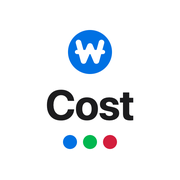
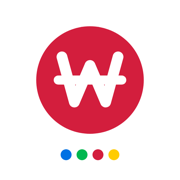
옐로(개나리) 테마 추가, 색 점 4개, 새 홈 화면 아이콘(흰 바탕 + 앱 색 큰 원 + 흰 그림)
Claude-Session: https://claude.ai/code/session_01AAGSzkox3hKXTnKDzvxEBJ

Changed region(s): [[0.1944, 0.1389, 0.8056, 0.8889]]

diff --git a/style.css b/style.css
@@ -1,4 +1,4 @@
-/* AIN Cost 스타일 v14 — 색·크기는 ../ain-todo/plan/design-guide.md(공통 디자인 가이드)를 따른다 */
+/* AIN Cost 스타일 v15 — 색·크기는 ../ain-todo/plan/design-guide.md(공통 디자인 가이드)를 따른다 */
 
 :root {
   --bg: #F2F2F7;
@@ -82,17 +82,21 @@
   color-scheme: dark;
 }
 
-/* 테마 색 (설정에서 고름, 계정마다 기억): 블루(기본) · 그린(팬톤 7481 C) · 레드
+/* 테마 색 (설정에서 고름, 계정마다 기억): 블루(기본) · 그린(팬톤 7481 C) · 레드 · 옐로
    - 버튼·막대·스위치·동전은 --primary, 흰 바탕 위 작은 글씨·아이콘은 --primary-text
-   - 그린 버튼의 흰 글씨는 대비 2.66으로 기준(4.5)보다 낮음: 사용자가 고른 색이라 예외 (디자인 가이드 참고) */
+   - 그린 버튼의 흰 글씨는 대비 2.66으로 기준(4.5)보다 낮음: 사용자가 고른 색이라 예외 (디자인 가이드 참고)
+   - 옐로 버튼의 흰 글씨도 대비 1.51로 낮음: 네 테마 버튼을 같게 하려고 사용자가 고른 예외. 라이트의 작은 글씨·아이콘만 진한 황토색 */
 :root[data-accent="green"] { --primary: #00B74F; --primary-text: #007B33; }
 :root[data-accent="red"] { --primary: #D31E3D; --primary-text: #D31E3D; }
+:root[data-accent="yellow"] { --primary: #FFCC00; --primary-text: #8C6500; }
 @media (prefers-color-scheme: dark) {
   :root:not([data-theme="light"])[data-accent="green"] { --primary-text: #00B74F; }
   :root:not([data-theme="light"])[data-accent="red"] { --primary-text: #FF4048; }
+  :root:not([data-theme="light"])[data-accent="yellow"] { --primary-text: #FFCC00; }
 }
 :root[data-theme="dark"][data-accent="green"] { --primary-text: #00B74F; }
 :root[data-theme="dark"][data-accent="red"] { --primary-text: #FF4048; }
+:root[data-theme="dark"][data-accent="yellow"] { --primary-text: #FFCC00; }
 
 * { box-sizing: border-box; }
 html { -webkit-text-size-adjust: 100%; }
@@ -536,10 +540,11 @@ select.f-date { text-align-last: center; }
 .splash-word { font-size: 24px; line-height: 1; margin: 0 0 16px; animation: splash-up .5s ease-out 1s both; }
 .splash-dots { display: flex; gap: 7px; }
 .splash-dots i { width: 8px; height: 8px; border-radius: 4px; animation: splash-dot .3s cubic-bezier(.3, 1.6, .5, 1) both; }
-/* 색 점은 세 테마 색 (테마와 상관없이 항상 같음) */
+/* 색 점은 네 테마 색 (테마와 상관없이 항상 같음) */
 .splash-dots i:nth-child(1) { background: #0071E3; animation-delay: 1.3s; }
 .splash-dots i:nth-child(2) { background: #00B74F; animation-delay: 1.4s; }
 .splash-dots i:nth-child(3) { background: #D31E3D; animation-delay: 1.5s; }
+.splash-dots i:nth-child(4) { background: #FFCC00; animation-delay: 1.6s; }
 @keyframes splash-spread { from { transform: scale(.55); opacity: 0; } 40% { opacity: 1; } to { transform: none; opacity: 1; } }
 @keyframes splash-draw { from { stroke-dashoffset: 100; opacity: 0; } 2% { opacity: 1; } to { stroke-dashoffset: 0; opacity: 1; } }
 @keyframes splash-dot { from { transform: scale(0); } to { transform: none; } }

diff --git a/index.html b/index.html
@@ -15,13 +15,13 @@
     try {
       const s = JSON.parse(localStorage.getItem('ainCost')).settings;
       if (s.theme === 'light' || s.theme === 'dark') document.documentElement.setAttribute('data-theme', s.theme);
-      if (s.accent === 'green' || s.accent === 'red') document.documentElement.setAttribute('data-accent', s.accent);
+      if (s.accent === 'green' || s.accent === 'red' || s.accent === 'yellow') document.documentElement.setAttribute('data-accent', s.accent);
     } catch (e) {}
   </script>
-  <link rel="stylesheet" href="style.css?v=16">
+  <link rel="stylesheet" href="style.css?v=17">
 </head>
 <body>
-  <!-- 시작 화면 (앱을 새로 열 때만, 약 2초): 파란 원이 펼쳐지고 → ₩가 그려짐(W 다음 가로줄) → 이름 → 색 점 3개 (세 앱 공통 순서)
+  <!-- 시작 화면 (앱을 새로 열 때만, 약 2초): 파란 원이 펼쳐지고 → ₩가 그려짐(W 다음 가로줄) → 이름 → 색 점 4개 (세 앱 공통 순서)
        예전에는 동전이 한 바퀴 돌았는데, 아이폰이 바쁠 때 계속 끊겨 보여서 그리기로 바꿈 (2026-10-23) -->
   <div class="splash" id="splash" aria-hidden="true">
     <div class="splash-mark">
@@ -29,7 +29,7 @@
         <svg viewBox="0 0 64 64"><circle class="splash-bg" cx="32" cy="32" r="32"/><path class="splash-draw" pathLength="100" d="M15.3 18.2 L22.7 45.1 L32 23.3 L41.3 45.1 L48.7 18.2" stroke-width="8.1" style="--at:.5s;--d:.62s"/><path class="splash-draw" pathLength="100" d="M13.1 32 H50.9" stroke-width="6.1" style="--at:1.06s;--d:.22s"/></svg>
       </div>
       <div class="wordmark splash-word"><b>AIN</b> Cost</div>
-      <div class="splash-dots"><i></i><i></i><i></i></div>
+      <div class="splash-dots"><i></i><i></i><i></i><i></i></div>
     </div>
   </div>
 
@@ -219,6 +219,7 @@
           <button type="button" data-v="blue"><i class="sw" style="background:#0071E3"></i>블루</button>
           <button type="button" data-v="green"><i class="sw" style="background:#00B74F"></i>그린</button>
           <button type="button" data-v="red"><i class="sw" style="background:#D31E3D"></i>레드</button>
+          <button type="button" data-v="yellow"><i class="sw" style="background:#FFCC00"></i>옐로</button>
         </div></div></div>
         <p class="hint">버튼과 강조 색이 바뀌어요. 이 계정의 모든 기기에 같이 적용돼요.</p>
 
@@ -273,7 +274,7 @@
   <script src="https://www.gstatic.com/firebasejs/10.12.2/firebase-app-compat.js"></script>
   <script src="https://www.gstatic.com/firebasejs/10.12.2/firebase-auth-compat.js"></script>
   <script src="https://www.gstatic.com/firebasejs/10.12.2/firebase-firestore-compat.js"></script>
-  <script src="app.js?v=7"></script>
+  <script src="app.js?v=8"></script>
   <script src="repeat.js?v=2"></script>
   <script src="records.js?v=3"></script>
   <script src="sheet.js?v=7"></script>

diff --git a/app.js b/app.js
@@ -1,4 +1,4 @@
-// AIN Cost 공통 v7: 날짜·금액 도우미, 저장소, 상태, 화면 모드·테마 색, 아래에서 올라오는 창
+// AIN Cost 공통 v8: 날짜·금액 도우미, 저장소, 상태, 화면 모드·테마 색, 아래에서 올라오는 창
 
 const STORE_KEY = 'ainCost';
 const WEEK_NAMES = ['일', '월', '화', '수', '목', '금', '토'];
@@ -52,7 +52,7 @@ let state = {
   methods: DEFAULT_METHODS,
   records: [],
   recurring: [], // 매달 나가는 돈 (repeat.js)
-  // theme: light | dark | auto (기기마다), accent: blue | green | red (계정마다)
+  // theme: light | dark | auto (기기마다), accent: blue | green | red | yellow (계정마다)
   settings: { theme: 'auto', accent: 'blue' }
 };
 
@@ -101,7 +101,7 @@ function applyTheme() {
   const root = document.documentElement;
   if (mode === 'light' || mode === 'dark') root.setAttribute('data-theme', mode);
   else root.removeAttribute('data-theme');
-  if (accent === 'green' || accent === 'red') root.setAttribute('data-accent', accent);
+  if (accent === 'green' || accent === 'red' || accent === 'yellow') root.setAttribute('data-accent', accent);
   else root.removeAttribute('data-accent');
 }
 
